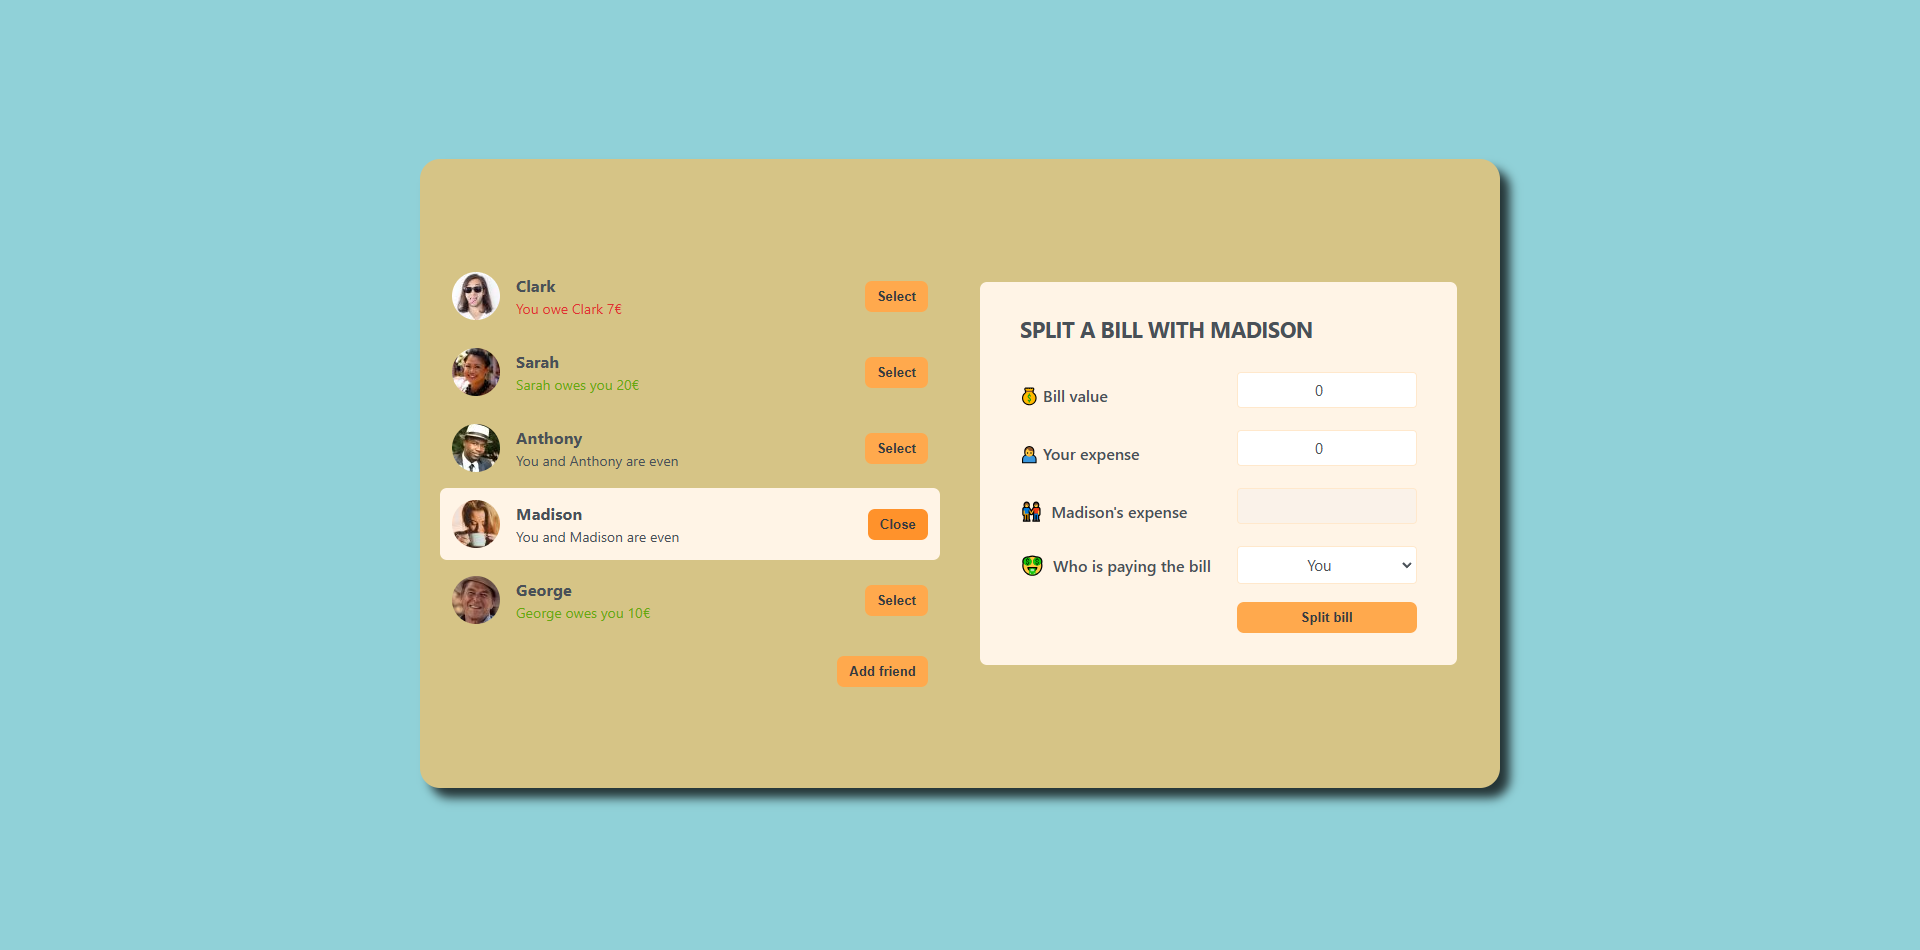
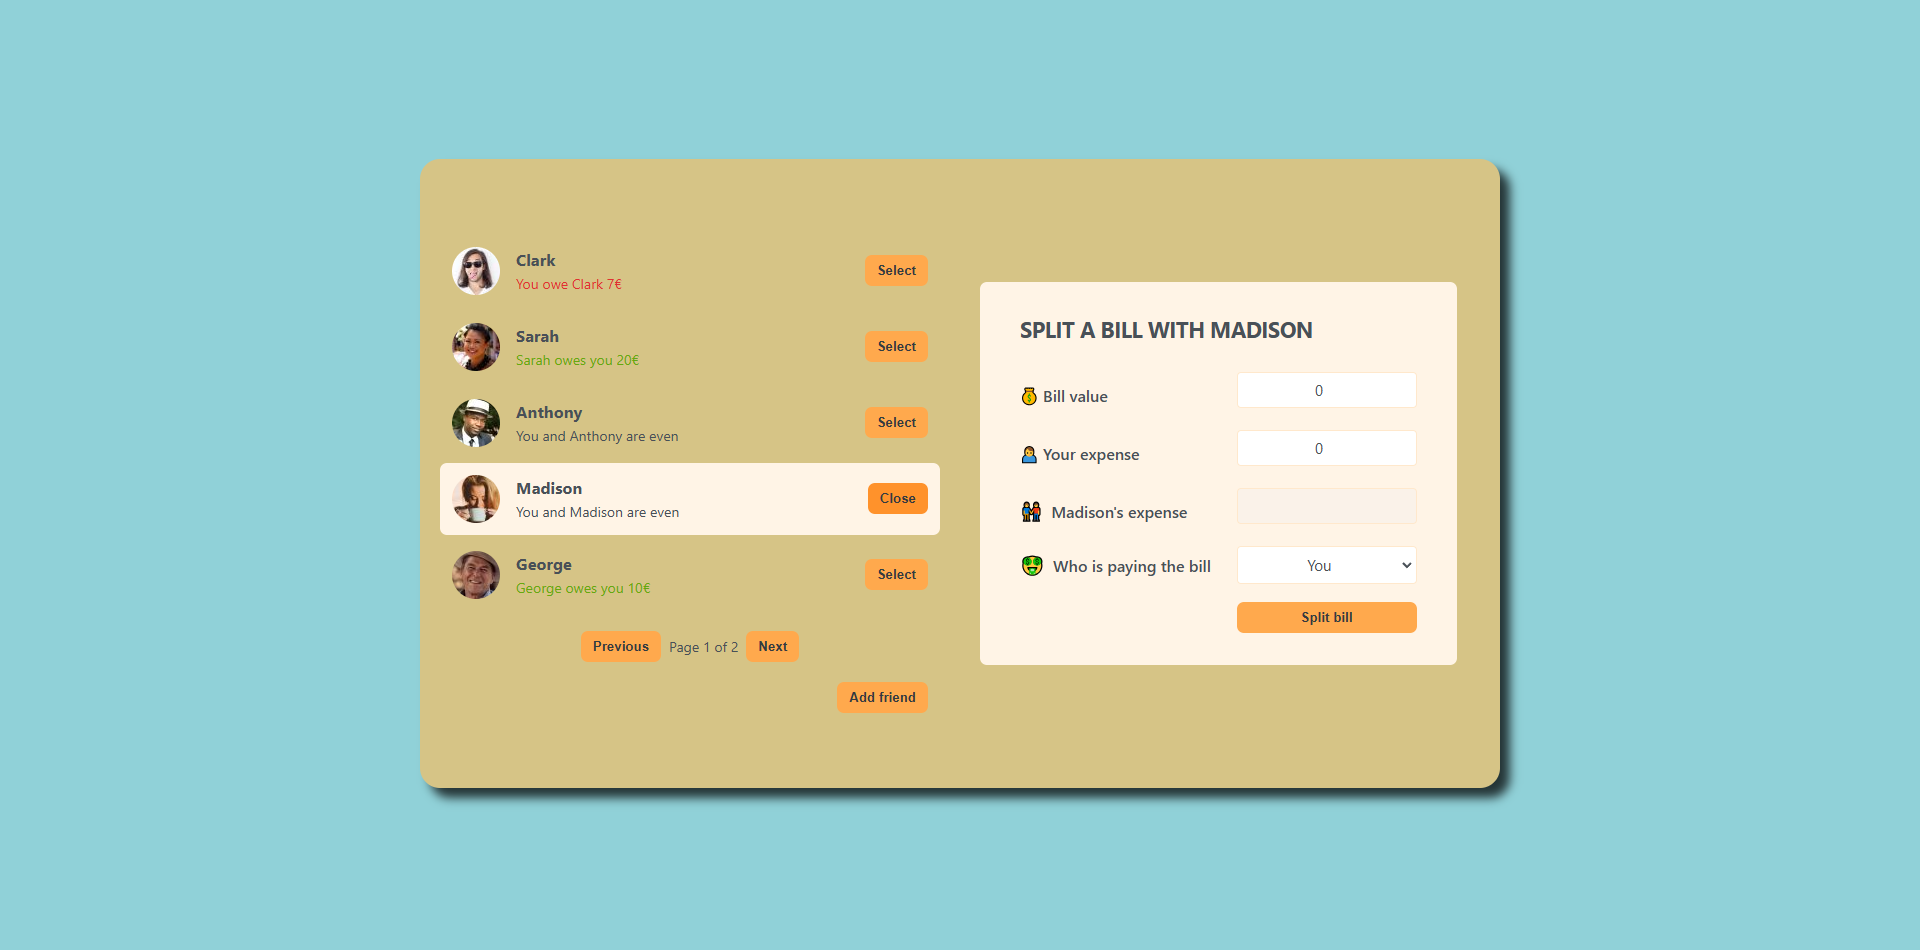
FAIR SHARE 1.6.0
Add Feature Pages Friends List
Update App.js
Update friendsData.json
Update index.css

Changed region(s): [[0.2188, 0.2442, 0.5, 0.7632]]

diff --git a/src/components/App.js b/src/components/App.js
@@ -7,6 +7,8 @@ export default function App() {
   const [selectedFriend, setSelectedFriend] = useState(friends[3])
   const [showMessage, setShowMessage] = useState(false)
   const [splitSuccess, setSplitSuccess] = useState(false)
+  const [currentPage, setCurrentPage] = useState(1)
+  const friendsPerPage = 5
 
   function handleShowAddFriend() {
     setShowAddFriend((showAddFriend) => !showAddFriend)
@@ -27,10 +29,37 @@ export default function App() {
     setSelectedFriend(null)
   }
 
+  const indexOfLastFriend = currentPage * friendsPerPage
+  const indexOfFirstFriend = indexOfLastFriend - friendsPerPage
+  const currentFriends = friends.slice(indexOfFirstFriend, indexOfLastFriend)
+
+  function handleNextPage() {
+    if (currentPage < Math.ceil(friends.length / friendsPerPage)) {
+      setCurrentPage((prev) => prev + 1);
+    }
+  }
+
+  function handlePreviousPage() {
+    if (currentPage > 1) {
+      setCurrentPage((prev) => prev - 1);
+    }
+  }
+
   return (
     <div className="app">
       <div className="sidebar">
-        <FriendList friends={friends} selectedFriend={selectedFriend} onSelection={handleSelection} />
+        <FriendList friends={currentFriends} selectedFriend={selectedFriend} onSelection={handleSelection} />
+        <div className="pagination">
+          <Button onClick={handlePreviousPage} disabled={currentPage === 1}>
+            Previous
+          </Button>
+          <span>
+            Page {currentPage} of {Math.ceil(friends.length / friendsPerPage)}
+          </span>
+          <Button onClick={handleNextPage} disabled={currentPage === Math.ceil(friends.length / friendsPerPage)}>
+            Next
+          </Button>
+        </div>
         {showAddFriend && <FormAddFriend onAddFriend={handleAddFriend} />}
         <Button onClick={handleShowAddFriend}>{showAddFriend ? "Close" : "Add friend"}</Button>
       </div>
@@ -41,8 +70,10 @@ export default function App() {
 }
 
 function FriendList({ friends, selectedFriend, onSelection }) {
+  const visibleFriends = friends.slice(0, 5);
+
   return (
-    <ul>{friends.map(friend => <Friend key={friend.id} friend={friend} selectedFriend={selectedFriend} onSelection={onSelection} />)}</ul >
+    <ul>{visibleFriends.map(friend => <Friend key={friend.id} friend={friend} selectedFriend={selectedFriend} onSelection={onSelection} />)}</ul >
   )
 }
 

diff --git a/src/index.css b/src/index.css
@@ -114,6 +114,15 @@ body {
   margin-right: 1.2rem;
 }
 
+.pagination {
+  display: flex;
+  justify-content: center;
+  align-items: center;
+  gap: 0.8rem;
+  font-size: 1.4rem;
+  margin: 20px 0;
+}
+
 .green {
   color: var(--green);
 }

diff --git a/README.md b/README.md
@@ -10,7 +10,7 @@
 
 - **STACK :**
 
-  - **Fair Share** : `1.5.0`
+  - **Fair Share** : `1.6.0`
   - **React** : `18.3.1`
   - **React Dom** : `18.3.1`
 
